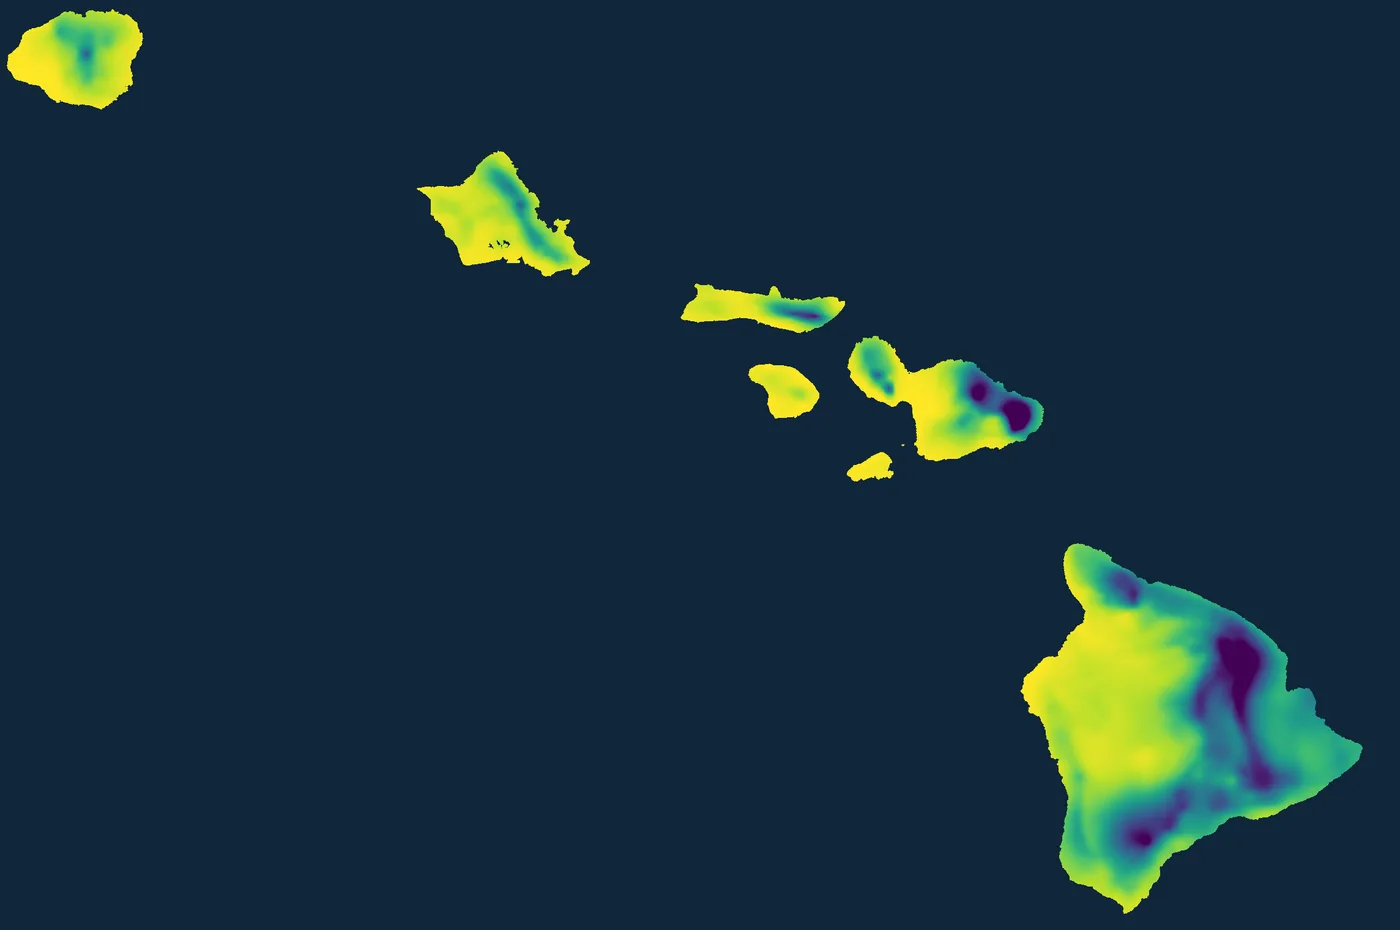
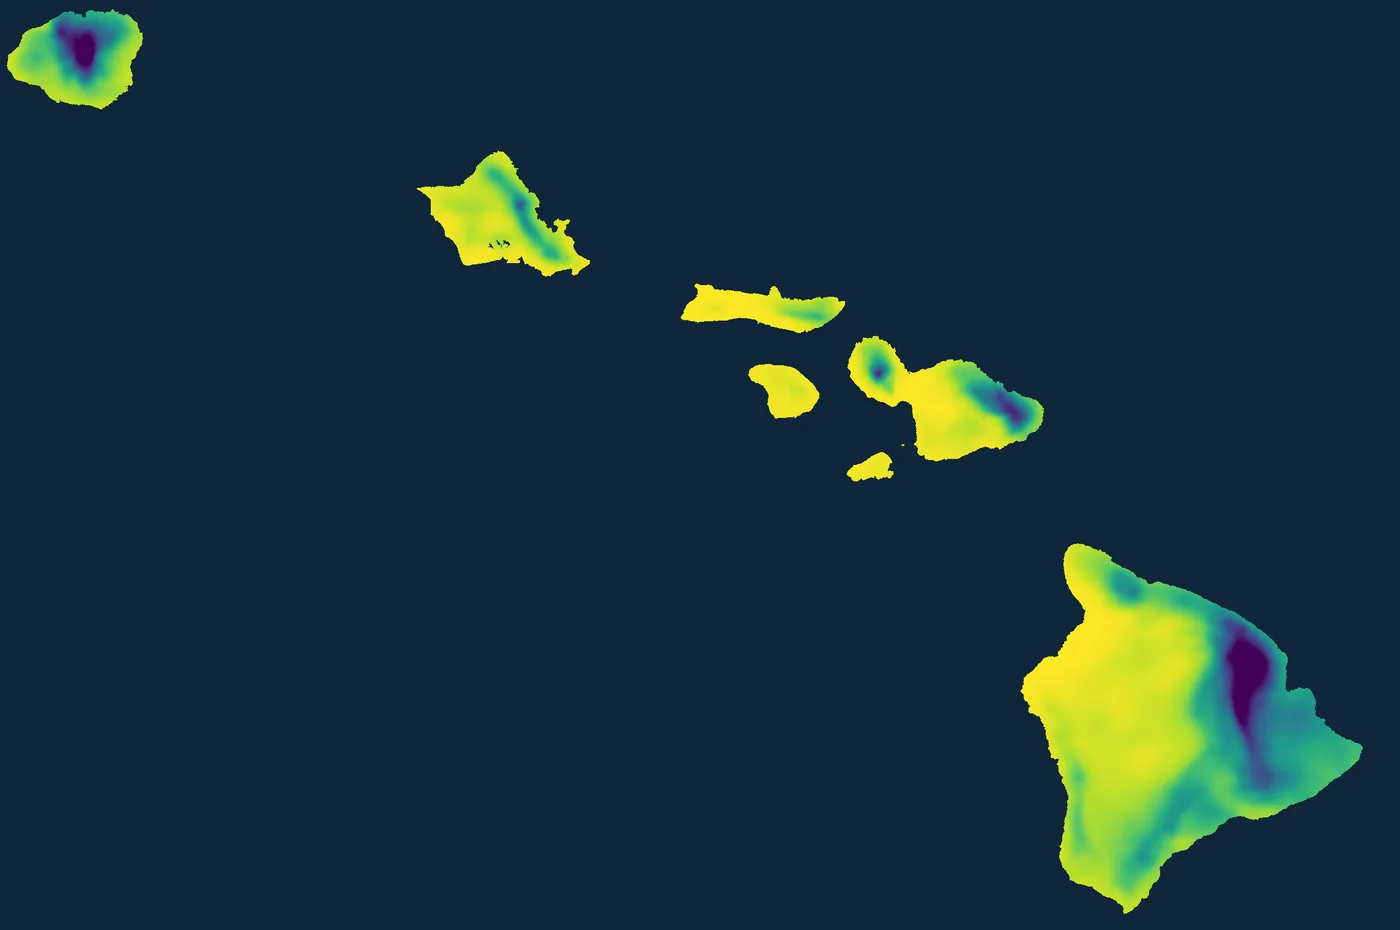
Landing maps: the shipped September map paints with the page and the first live map fades over it in under a second; next map every 3.5 s with a 3 s crossfade
Claude-Session: https://claude.ai/code/session_01VnPbB2rv2tLPQs228EuJ56

diff --git a/frontend/src/components/MapBackdrop.jsx b/frontend/src/components/MapBackdrop.jsx
@@ -4,15 +4,18 @@ import { useEffect, useRef, useState } from 'react'
 // /api/map.webp with the ocean filled in the hero's own blue, so there is no seam; each
 // arrives as a blurred 24 px preview first and sharpens when the full map lands.
 // The first map paints at once (no fade-in on load); each next map fades in over the current one very
-// gradually (4 s) and the old one is then removed, so nothing pales mid-fade; the next one starts 6.5 s in. Nothing to click and nothing to cycle by hand
+// gradually (3 s) and the old one is then removed, so nothing pales mid-fade; the next one starts 3.5 s in. The shipped
+// opener (frontend/public/backdrop-fallback-*.webp, preloaded from index.html) paints with the page itself, so the
+// map is there from the first frame; the first live map fades over it in under a second. Nothing to click and nothing to cycle by hand
 // (your rule, 2026-09-30): no caption, no pause, no dots, no progress line. Preloads
 // every image first, pauses in a hidden tab and stops for reduced-motion users.
 export const OCEAN = { light: 'bfe0f7', dark: '10263a' }   // keep in step with OCEAN_FILLS in backend/app.py
-const INTERVAL_MS = 6500
-const FADE_MS = 4000
+const INTERVAL_MS = 3500
+const FADE_MS = 3000
 const FALLBACK_AFTER_MS = 6000
+const FIRST_FADE_MS = 900    // the first live map over the shipped opener (they are the same render, so this is invisible)
 // A map shipped with the site (frontend/public), shown if /api/backdrops or the renders fail (R7 B).
-const FALLBACK = { dataset: 'rainfall', period: 'month', date: '2026-08', extent: 'statewide', label: 'Rainfall · August 2026', fallback: true }
+const FALLBACK = { dataset: 'rainfall', period: 'month', date: '2026-09', extent: 'statewide', label: 'Rainfall · September 2026', fallback: true }
 
 /** True while <html> carries the `dark` class (the ThemeProvider toggles it). */
 export function useIsDark() {
@@ -88,6 +91,10 @@ export default function MapBackdrop({ opacity = 0.92 }) {
 
   const current = items[index]
   const ready = current && loaded[src(current)]
+  // The shipped opener stays under the first live map while that one fades in, then goes.
+  const bootRef = useRef(true)
+  const [bootGone, setBootGone] = useState(false)
+  const firstLive = ready && !bootGone && !current.fallback
   return (
     <>
       <div aria-hidden="true" className="absolute inset-0 -z-10 overflow-hidden" data-testid="map-backdrop" style={{ background: `#${ocean}` }}>
@@ -95,13 +102,13 @@ export default function MapBackdrop({ opacity = 0.92 }) {
           <img key={`prev-${items[prev].url || 'fallback'}-${ocean}`} src={src(items[prev])} alt="" draggable="false"
             className="absolute inset-0 h-full w-full select-none object-contain p-4 sm:p-8" style={{ opacity }} />
         )}
-        {current && !ready && current.preview && (
-          <img key={`pre-${current.url}`} src={current.preview} alt="" draggable="false"
-            className="absolute inset-0 h-full w-full select-none object-contain p-4 sm:p-8" style={{ opacity: opacity * 0.9, filter: 'blur(6px)' }} data-testid="backdrop-preview" />
+        {!bootGone && !(current && current.fallback && ready) && (
+          <img key={`boot-${ocean}`} src={`/backdrop-fallback-${dark ? 'dark' : 'light'}.webp`} alt="" draggable="false" fetchPriority="high" decoding="sync"
+            className="absolute inset-0 h-full w-full select-none object-contain p-4 sm:p-8" style={{ opacity }} data-testid="backdrop-opener" />
         )}
         {ready && (
           <img key={`cur-${current.url || 'fallback'}-${ocean}`} src={src(current)} alt="" draggable="false"
-            className={`${prev !== null ? 'hcdp-bd-in ' : ''}absolute inset-0 h-full w-full select-none object-contain p-4 sm:p-8`} style={{ opacity, '--bd-op': opacity, '--bd-fade': `${FADE_MS}ms` }} />   /* the first map is simply there; each next map fades in over the last, very gradually (12 Oct) */
+            className={`${prev !== null || firstLive ? 'hcdp-bd-in ' : ''}absolute inset-0 h-full w-full select-none object-contain p-4 sm:p-8`} style={{ opacity, '--bd-op': opacity, '--bd-fade': `${firstLive ? FIRST_FADE_MS : FADE_MS}ms` }} onAnimationEnd={() => { if (firstLive) { bootRef.current = false; setBootGone(true) } }} />
         )}
       </div>
     </>

diff --git a/frontend/index.html b/frontend/index.html
@@ -7,6 +7,7 @@
     <meta name="viewport" content="width=device-width, initial-scale=1.0" />
     <title>Hawaiʻi Climate Data Portal</title>
     <meta name="description" content="Climate data, maps, station observations and tools for Hawaiʻi and the Pacific, with an assistant that takes you to the right one." />
+    <link rel="preload" as="image" href="/backdrop-fallback-light.webp" fetchpriority="high" />
     <link rel="preload" as="image" href="/hcdp_logo.png" />
     <link rel="preload" as="image" href="/hcdp_mark.png" />
     <link rel="preconnect" href="https://fonts.googleapis.com" />
